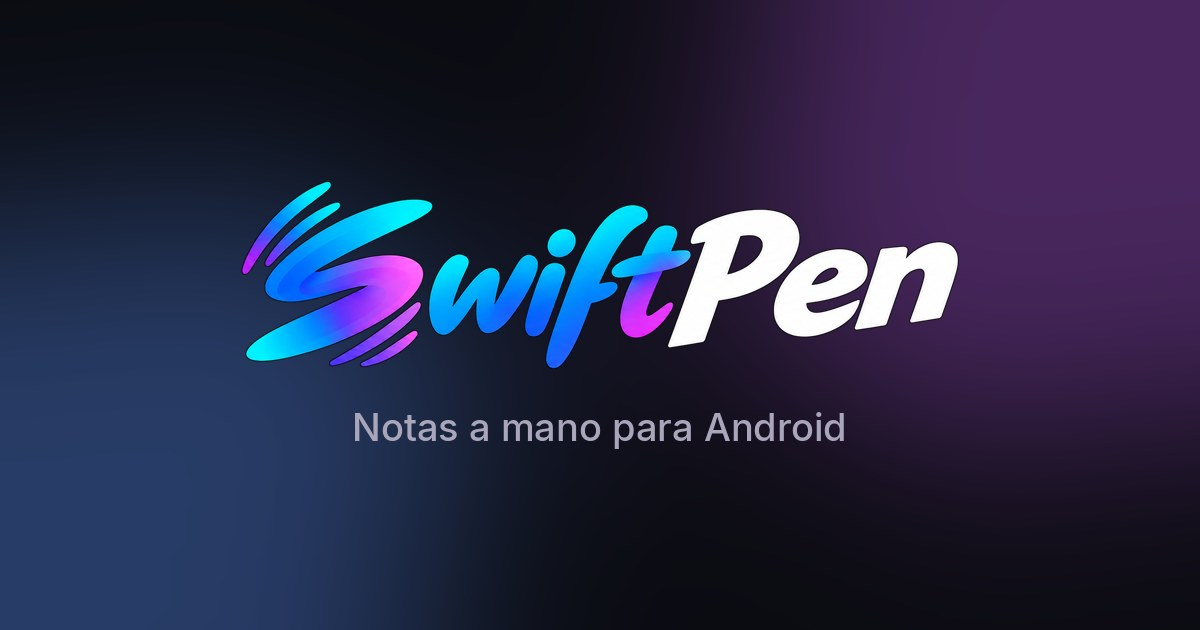
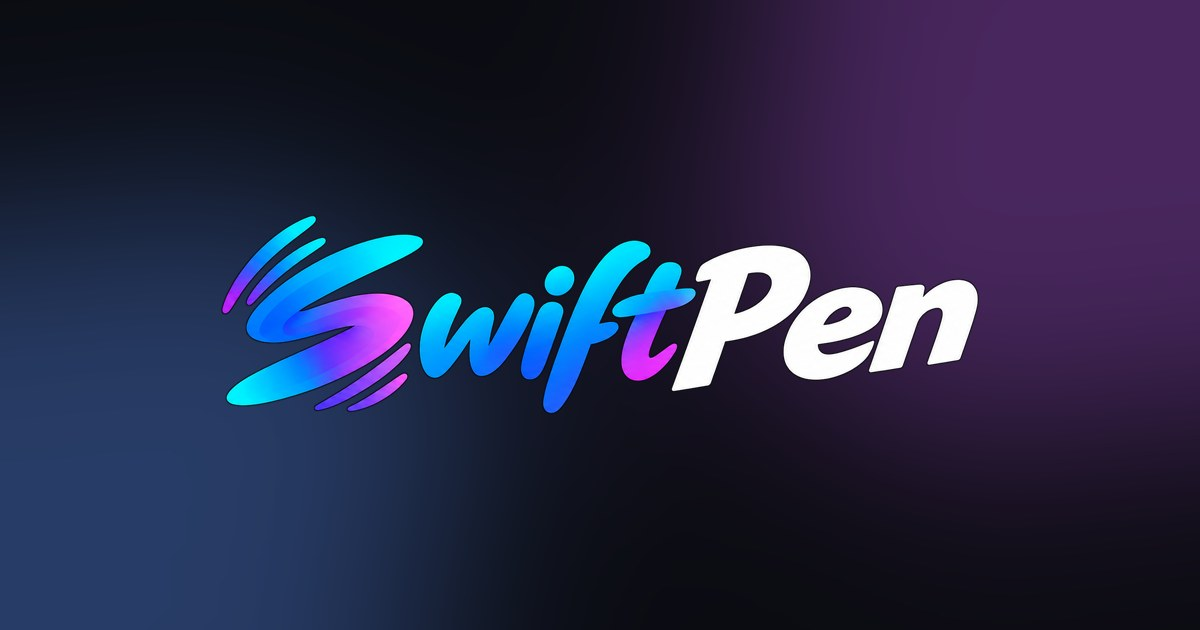
feat: fuera la etiqueta «Notas a mano para Android» del hero y de la imagen de compartir

Changed region(s): [[0.185, 0.2714, 0.8325, 0.7238]]

diff --git a/swiftpen/index.html b/swiftpen/index.html
@@ -10,7 +10,7 @@
 <meta property="og:title" content="SwiftPen — notas a mano para Android">
 <meta property="og:description" content="Un cuaderno que es tuyo. De verdad.">
 <meta property="og:url" content="https://matias-alm.github.io/swiftpen/">
-<meta property="og:image" content="https://matias-alm.github.io/swiftpen/img/portada.jpg">
+<meta property="og:image" content="https://matias-alm.github.io/swiftpen/img/portada.jpg?v=2">
 <meta property="og:image:width" content="1200">
 <meta property="og:image:height" content="630">
 <meta property="og:image:alt" content="SwiftPen, notas a mano para Android">
@@ -69,7 +69,6 @@
 <section class="hero">
   <div class="contenedor">
     <div class="hero-texto">
-      <p class="etiqueta"><span lang="es">Notas a mano para Android</span><span lang="en">Handwritten notes for Android</span></p>
       <h1>
         <span lang="es">Un cuaderno que es tuyo.<br><span class="degradado">De verdad.</span></span>
         <span lang="en">A notebook that's yours.<br><span class="degradado">For real.</span></span>

diff --git a/swiftpen/privacidad/index.html b/swiftpen/privacidad/index.html
@@ -11,7 +11,7 @@
 <meta property="og:title" content="SwiftPen · Política de privacidad">
 <meta property="og:description" content="Tus notas son tuyas y se quedan en tu dispositivo.">
 <meta property="og:url" content="https://matias-alm.github.io/swiftpen/privacidad/">
-<meta property="og:image" content="https://matias-alm.github.io/swiftpen/img/portada.jpg">
+<meta property="og:image" content="https://matias-alm.github.io/swiftpen/img/portada.jpg?v=2">
 <meta property="og:image:width" content="1200">
 <meta property="og:image:height" content="630">
 <meta property="og:image:alt" content="SwiftPen, notas a mano para Android">

diff --git a/index.html b/index.html
@@ -14,7 +14,7 @@
 <meta property="og:title" content="SwiftPen — notas a mano para Android">
 <meta property="og:description" content="Un cuaderno que es tuyo. De verdad.">
 <meta property="og:url" content="https://matias-alm.github.io/swiftpen/">
-<meta property="og:image" content="https://matias-alm.github.io/swiftpen/img/portada.jpg">
+<meta property="og:image" content="https://matias-alm.github.io/swiftpen/img/portada.jpg?v=2">
 <meta property="og:image:width" content="1200">
 <meta property="og:image:height" content="630">
 <meta property="og:image:alt" content="SwiftPen, notas a mano para Android">
